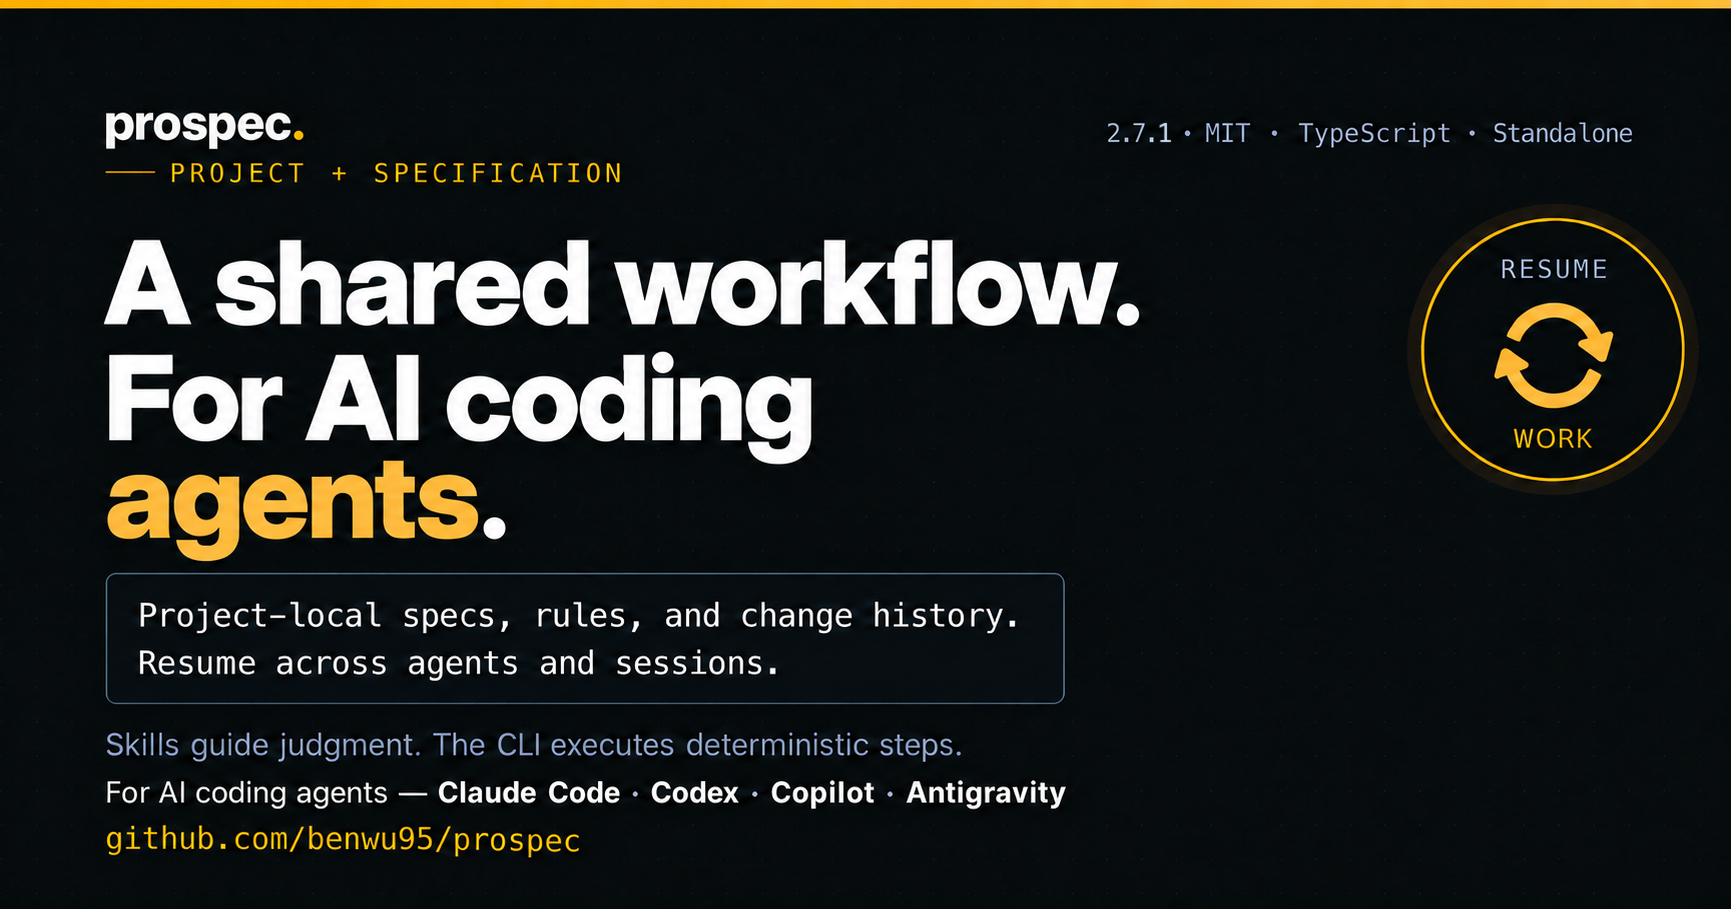
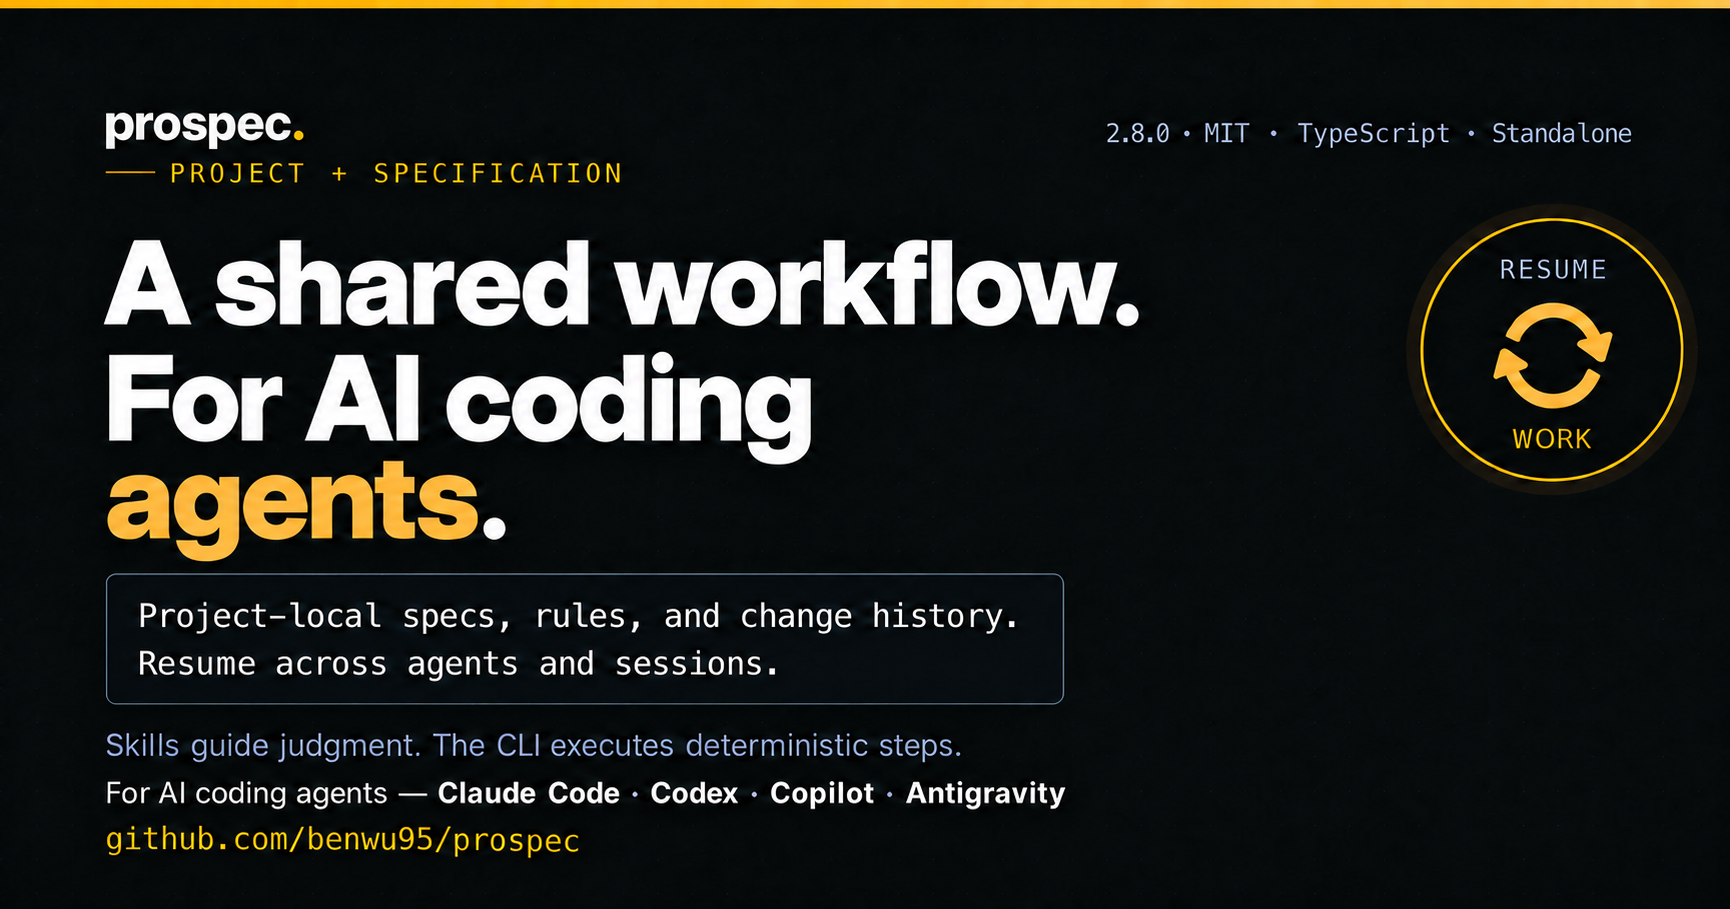
chore: bump version to 2.8.0
- Require CLI 2.8.0 for synced Skills using explicit module scope.
- Document scope migration in both upgrade guides and refresh generated guidance.
- Update website release metadata and the social preview version label.

diff --git a/docs/index.html b/docs/index.html
@@ -14,12 +14,12 @@
 <meta property="og:image" content="https://benwu95.github.io/prospec/og.png">
 <meta property="og:image:width" content="1731">
 <meta property="og:image:height" content="909">
-<meta property="og:image:alt" content="Prospec 2.7.1 — a shared, resumable workflow for AI coding agents. Project-local specs, rules, and change history. Skills guide judgment; the CLI executes deterministic steps.">
+<meta property="og:image:alt" content="Prospec 2.8.0 — a shared, resumable workflow for AI coding agents. Project-local specs, rules, and change history. Skills guide judgment; the CLI executes deterministic steps.">
 <meta name="twitter:card" content="summary_large_image">
 <meta name="twitter:title" content="Prospec — a shared workflow for AI coding agents">
 <meta name="twitter:description" content="Project-local specs, rules, and change history keep work resumable across agents and sessions. Skills guide judgment; the CLI executes deterministic steps.">
 <meta name="twitter:image" content="https://benwu95.github.io/prospec/og.png">
-<meta name="twitter:image:alt" content="Prospec 2.7.1 — a shared, resumable workflow for AI coding agents. Project-local specs, rules, and change history. Skills guide judgment; the CLI executes deterministic steps.">
+<meta name="twitter:image:alt" content="Prospec 2.8.0 — a shared, resumable workflow for AI coding agents. Project-local specs, rules, and change history. Skills guide judgment; the CLI executes deterministic steps.">
 <script>
   (function(){
     var h = document.documentElement;
@@ -46,8 +46,8 @@
   "applicationCategory":"DeveloperApplication",
   "operatingSystem":"macOS, Linux, Windows",
   "softwareRequirements":"Standalone binaries require no Node.js. Node.js >= 22.13 is required only for npx, devDependency, or source-development paths.",
-  "softwareVersion":"2.7.1",
-  "dateModified":"2026-10-14",
+  "softwareVersion":"2.8.0",
+  "dateModified":"2026-10-16",
   "license":"https://opensource.org/licenses/MIT",
   "url":"https://benwu95.github.io/prospec/",
   "codeRepository":"https://github.com/benwu95/prospec",
@@ -104,7 +104,7 @@
 <!-- ===================== NAV ===================== -->
 <header class="nav">
   <div class="wrap nav__in">
-    <a class="brand" href="#top" aria-label="Prospec home" data-i18n-aria-label="nav.aria.brandHome">prospec<span class="dot" aria-hidden="true">.</span><span class="ver">2.7.1</span></a>
+    <a class="brand" href="#top" aria-label="Prospec home" data-i18n-aria-label="nav.aria.brandHome">prospec<span class="dot" aria-hidden="true">.</span><span class="ver">2.8.0</span></a>
     <nav class="nav__links" aria-label="Primary" data-i18n-aria-label="nav.aria.primary">
       <a href="#v2" data-i18n="nav.v2">Workflow</a>
       <a href="#how" data-i18n="nav.how">How it works</a>

diff --git a/tests/contract/skill-format.test.ts b/tests/contract/skill-format.test.ts
@@ -2714,8 +2714,8 @@ describe('Skill Format Contract', () => {
       const workflow = htmlSectionById(website, 'v2');
       expect(workflow).toContain('prospec status');
       expect(workflow).toContain('docs/guides/upgrading.md');
-      expect(website).toContain('<span class="ver">2.7.1</span>');
-      expect(website).toContain('"softwareVersion":"2.7.1"');
+      expect(website).toContain('<span class="ver">2.8.0</span>');
+      expect(website).toContain('"softwareVersion":"2.8.0"');
       for (const page of [website, zhOverlay]) {
         expect(page).not.toContain('1.3 → 2.0');
         expect(page).not.toContain("What's new in 2.0");
@@ -2728,7 +2728,7 @@ describe('Skill Format Contract', () => {
       const twitterAlt = website.match(/<meta name="twitter:image:alt" content="([^"]+)">/)?.[1];
       expect(ogAlt).toBeDefined();
       expect(twitterAlt).toBe(ogAlt);
-      expect(ogAlt).toContain('2.7.1');
+      expect(ogAlt).toContain('2.8.0');
       expect(ogAlt).toContain('shared');
       expect(ogAlt).not.toContain('audits itself');
     });

diff --git a/src/types/version.ts b/src/types/version.ts
@@ -23,8 +23,8 @@ export const PROSPEC_VERSION: string = process.env.PROSPEC_VERSION || pkgVersion
 /**
  * The oldest CLI supporting the deployed skills' command and evidence contracts.
  * Injected into every startup probe as `{{minimum_cli_version}}`.
- * The opt-in verify path consumes certified test_evidence from the 2.7 report;
- * an older binary cannot supply that assessment. Raise this floor when the
- * shipped skills require a newer contract, independently of package releases.
+ * Explicit empty scope uses --no-related-modules, which older CLIs reject.
+ * Raise this floor when shipped skills require a newer contract,
+ * independently of package releases.
  */
-export const MINIMUM_CLI_VERSION = '2.7.0';
+export const MINIMUM_CLI_VERSION = '2.8.0';

diff --git a/tests/unit/types/version.test.ts b/tests/unit/types/version.test.ts
@@ -30,10 +30,10 @@ describe('PROSPEC_VERSION', () => {
 });
 
 describe('MINIMUM_CLI_VERSION', () => {
-  it('requires the CLI version that ships the 2.7 test evidence contract', async () => {
+  it('requires the CLI version that ships explicit related-module scope', async () => {
     vi.resetModules();
     const { MINIMUM_CLI_VERSION } = await import('../../../src/types/version.js');
-    expect(MINIMUM_CLI_VERSION).toBe('2.7.0');
+    expect(MINIMUM_CLI_VERSION).toBe('2.8.0');
   });
 
   it('is a plain three-part semver literal (the probe floor skills render)', async () => {

diff --git a/docs/guides/upgrading.md b/docs/guides/upgrading.md
@@ -39,6 +39,18 @@ prospec-upgrade                 # Step 2: AI agent migrates drifted doc formats,
 > - **Legacy File Cleanup**: If upgrading from an older pre-1.0 Prospec layout, remove the now-unused legacy files and directories after re-syncing: `GEMINI.md`, `.gemini/skills/`, `.codex/skills/`, `.github/copilot-instructions.md`, and `.github/instructions/`.
 > - **Configuration Version & Triggers**: `.prospec.yaml` `version` tracks the prospec version the project last upgraded to. If you ever need to localize triggers after adding a skill, simply run `prospec agent sync` — it explicitly reports missing `skill_triggers` entries so you fill only the gaps.
 
+## Upgrade to 2.8.0
+
+Update the binary before running `prospec upgrade`: the synced Skills require CLI 2.8.0 or later for explicit related-module scope. No configuration change is required.
+
+Story creation no longer infers modules from keywords. Update scripts to pass `--related-module <module>` (repeatable), or `--no-related-modules` when none apply. Creation without either option is refused before writing artifacts.
+
+Existing changes with an absent `related_modules` declaration remain readable but block knowledge-sync and archive. Declare their complete scope with `prospec change related-modules <modules...> --change <name>`, or `prospec change related-modules --no-related-modules --change <name>` after determining none apply. This replaces the complete list; an explicit empty list means none, while an absent declaration means unknown. Independent requirement-based gates still apply.
+
+Unattributed auto-draft groups now fail without creating scaffolds. Determine their scope and create explicitly; attributed groups continue normally. See [Change management](../reference/cli-reference.md#change-management-commands) for the command contracts.
+
+Run `prospec status` and `prospec check --strict` after upgrading.
+
 ## Upgrade to 2.7.0
 
 Update the binary before running `prospec upgrade`: the synced Skills now require CLI 2.7.0 or later for the test evidence assessment contract. No configuration change is required for existing behavior.

diff --git a/prospec/ai-knowledge/modules/types/README.md b/prospec/ai-knowledge/modules/types/README.md
@@ -78,7 +78,7 @@ Also: `auto-draft.ts` (drift-drafting options/result, incl. the `created | skipp
 - `.optional()` → `T | undefined`, `.default()` → `T`; a new required field breaks existing `.prospec.yaml`. A budget threshold needs BOTH `TokenBudgetSchema` and `DEFAULT_KNOWLEDGE_TOKEN_BUDGET` (less `SHIPPED_BUDGET_FIELDS`, which ship with the version) — the resolver reads the default's keys, so a schema-only field parses then is ignored (a key-set test pins it).
 - `ChangeMetadataSchema` is loose at every level (reads never strip unmodeled keys), but `z.infer` of it gains an index signature that kills tsc's excess-property check — build against strict `NewChangeMetadata`, `satisfies` each spread body.
 - `ReviewFindingSchema.id` is optional but never decorative: omitting it buys location+lens keying against pre-round rows only, so the schema's doc comment is where that cost is stated for the caller. A finding carrying `repro`/`evidence` therefore REQUIRES one — the artifact anchors evidence by id. `evidence` is the one deliberately uncapped field (it never travels back); every relayed field is capped AND single-line because each is rendered as one table cell OR one raw line — `id` and `lens` are in the set for the raw-line half, and leaving them out made both forgeable.
-- `MINIMUM_CLI_VERSION` (`version.ts`) is the skills' probe floor, independent of the package version. Its 2.7.0 floor covers the opt-in verify report contract; raise it when shipped skills require newer CLI commands or evidence contracts.
+- `MINIMUM_CLI_VERSION` (`version.ts`) is the skills' probe floor, independent of the package version. Its 2.8.0 floor covers explicit related-module scope; raise it when shipped skills require newer CLI commands or evidence contracts.
 - `feature-map.ts` is shape-only — slug/module-map checks live in the lib loader, not here.
 - `test_provenance` is deliberately outside the metadata required-field floor.
 

diff --git a/prospec/ai-knowledge/modules/tests/README.md b/prospec/ai-knowledge/modules/tests/README.md
@@ -46,7 +46,7 @@ Lens changes require independent eight-lens expectations, alias/custom and thres
 
 ## Ripple Effects
 
-- Template/skill/service/CLI changes ripple to contract + E2E expectations; public README, `docs/` page or website claims ripple to the section-scoped document contracts; a new station command needs a formatter unit test AND an E2E case. Release bumps also update the website version and social-preview assertions in `skill-format.test.ts`.
+- Template/skill/service/CLI changes ripple to contract + E2E expectations; public README, `docs/` page or website claims ripple to the section-scoped document contracts; a new station command needs a formatter unit test AND an E2E case. Release bumps update website/social-preview assertions in `skill-format.test.ts`; a CLI floor bump updates `version.test.ts` (2.8.0: explicit scope).
 
 ## Pitfalls
 

diff --git a/AGENTS.md b/AGENTS.md
@@ -161,7 +161,7 @@ Feedback Promotion Pipeline - Collect session corrections, repeated verify FAILs
 
 At the start of a session, run `prospec status` — it deterministically reports each in-progress
 change's name, current node, suggested next step, and blocking gates (the executable copy of
-`prospec/ai-knowledge/_status-lifecycle.md`). The prospec CLI (version ≥ 2.7.0)
+`prospec/ai-knowledge/_status-lifecycle.md`). The prospec CLI (version ≥ 2.8.0)
 is a required file for the prospec skills: when it is missing or too old, STOP and install/upgrade
 the standalone executable before running any skill — never substitute manual steps.
 

diff --git a/CLAUDE.md b/CLAUDE.md
@@ -41,7 +41,7 @@ Each Skill's description and trigger words are surfaced automatically from its `
 
 At the start of a session, run `prospec status` — it deterministically reports each in-progress
 change's name, current node, suggested next step, and blocking gates (the executable copy of
-`prospec/ai-knowledge/_status-lifecycle.md`). The prospec CLI (version ≥ 2.7.0)
+`prospec/ai-knowledge/_status-lifecycle.md`). The prospec CLI (version ≥ 2.8.0)
 is a required file for the prospec skills: when it is missing or too old, STOP and install/upgrade
 the standalone executable before running any skill — never substitute manual steps.
 

diff --git a/.agents/skills/prospec-archive/SKILL.md b/.agents/skills/prospec-archive/SKILL.md
@@ -26,7 +26,7 @@ Write each generated document in the language the Constitution's Language Policy
    executable — the one-click installer script from the project README (macOS/Linux `install.sh`,
    Windows `install.ps1`) or a release binary from GitHub Releases; prospec is NOT published to
    npm. Then re-run this skill.
-3. **Version older than 2.7.0** → STOP. Report the installed vs required version
+3. **Version older than 2.8.0** → STOP. Report the installed vs required version
    and ask the user to upgrade, then re-run this skill.
 
 Hand-executing a CLI-owned mutation is NEVER the fallback — that re-introduces the

diff --git a/.agents/skills/prospec-backfill-spec/SKILL.md b/.agents/skills/prospec-backfill-spec/SKILL.md
@@ -27,7 +27,7 @@ Write each generated document in the language the Constitution's Language Policy
    executable — the one-click installer script from the project README (macOS/Linux `install.sh`,
    Windows `install.ps1`) or a release binary from GitHub Releases; prospec is NOT published to
    npm. Then re-run this skill.
-3. **Version older than 2.7.0** → STOP. Report the installed vs required version
+3. **Version older than 2.8.0** → STOP. Report the installed vs required version
    and ask the user to upgrade, then re-run this skill.
 
 Hand-executing a CLI-owned mutation is NEVER the fallback — that re-introduces the
